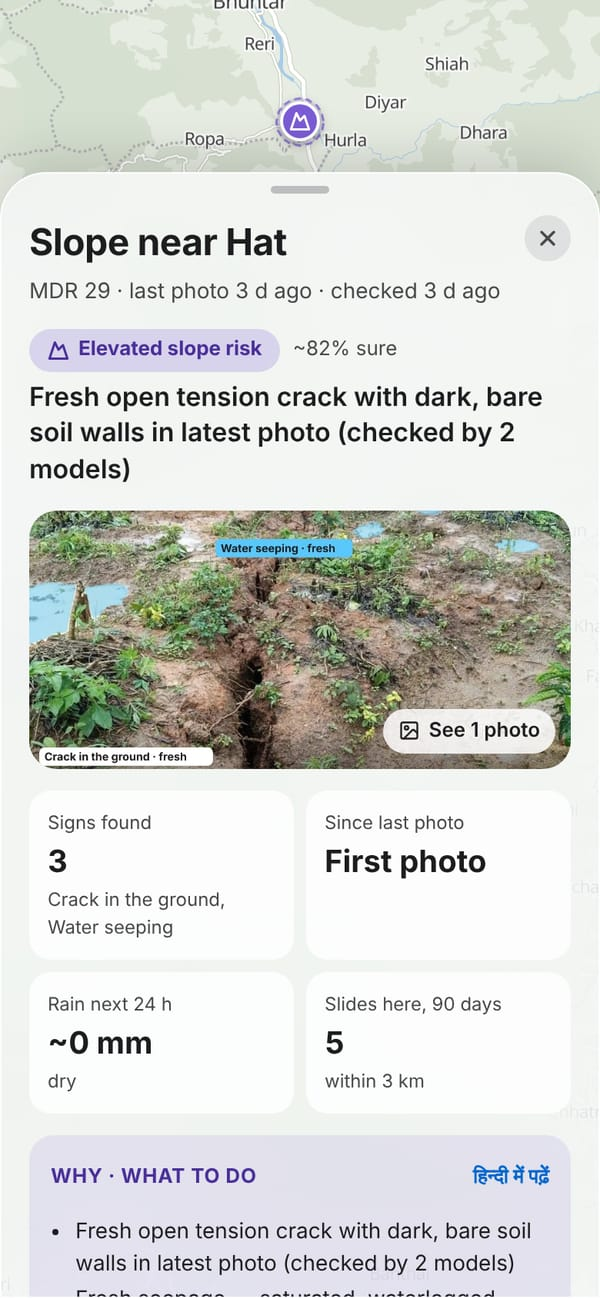
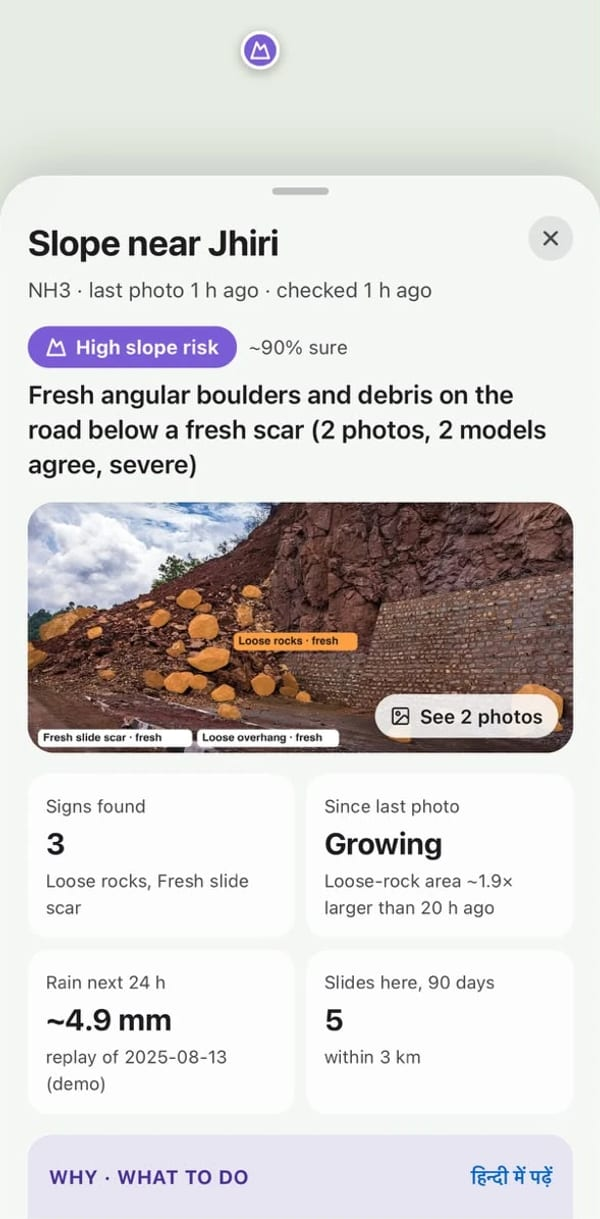
README: Slope Sentinel in depth (real phone screenshots: Jhiri high risk, advice, two-model check, alerts) (#34)

diff --git a/README.md b/README.md
@@ -128,8 +128,18 @@ flowchart LR
 </tr>
 <tr>
 <td align="center"><img src="docs/screenshots/05-vehicle-fit.jpg" width="240" alt="Can my vehicle cross"/><br/><b>Can my vehicle cross?</b><br/><sub>Vehicle width from a spec table, gap from SAM measurements, maths in code. Two models look at road + vehicle photos and can only make the verdict <i>stricter</i>.</sub></td>
-<td align="center"><img src="docs/screenshots/06-slope-sentinel.jpg" width="240" alt="Slope Sentinel"/><br/><b>Slope Sentinel</b><br/><sub>Photos of the hillside <i>above</i> the road, read like a field geologist (cracks, seepage, loose rock) × rain forecast × slide history → watch / elevated / high. Advice only — never closes a road.</sub></td>
+<td align="center"><img src="docs/screenshots/06-slope-sentinel.jpg" width="240" alt="Slope Sentinel"/><br/><b>Slope Sentinel</b><br/><sub>Photos of the hillside <i>above</i> the road, read like a field geologist (cracks, seepage, loose rock) × rain forecast × slide history → watch / elevated / high. Advice only — never closes a road. <a href="#slope-sentinel-in-depth--warning-before-the-hill-comes-down">More below ↓</a></sub></td>
 <td align="center"><sub><b>Field updates from the site</b> — progress photo (required) + % cleared + Hindi voice note; SAM checks the photo against the last one, mismatches are flagged, never hidden. <b>See the live loop below ↓</b></sub></td>
+</tr>
+</table>
+
+### Slope Sentinel, in depth — warning before the hill comes down
+
+<table>
+<tr>
+<td width="33%" align="center"><img src="docs/screenshots/16-slope-why-what-to-do.jpg" width="240" alt="Slope Sentinel reasons and advice"/><br/><b>Why, and what to do</b><br/><sub>Muse Wonder weighs the photo readings, how the slope changed since the last photo, the rain forecast and slides nearby → plain advice in English or Hindi.</sub></td>
+<td width="33%" align="center"><img src="docs/screenshots/17-slope-two-models-timeline.jpg" width="240" alt="Checked by two models, with timeline"/><br/><b>Two Meta models, every photo</b><br/><sub>Muse Spark Open reads the hillside, Muse Spark 1.3 checks it on its own. The timeline shows the risk rising as new photos arrive ("loose-rock area ~1.9× larger than 20 h ago").</sub></td>
+<td width="33%" align="center"><img src="docs/screenshots/18-slope-alerts-on-trip.jpg" width="240" alt="Slope alerts on a watched trip"/><br/><b>Reaches travellers on that road</b><br/><sub>When a slope on a watched trip rises to elevated or high, Road Watch sends an alert, next to the usual road changes.</sub></td>
 </tr>
 </table>
 
